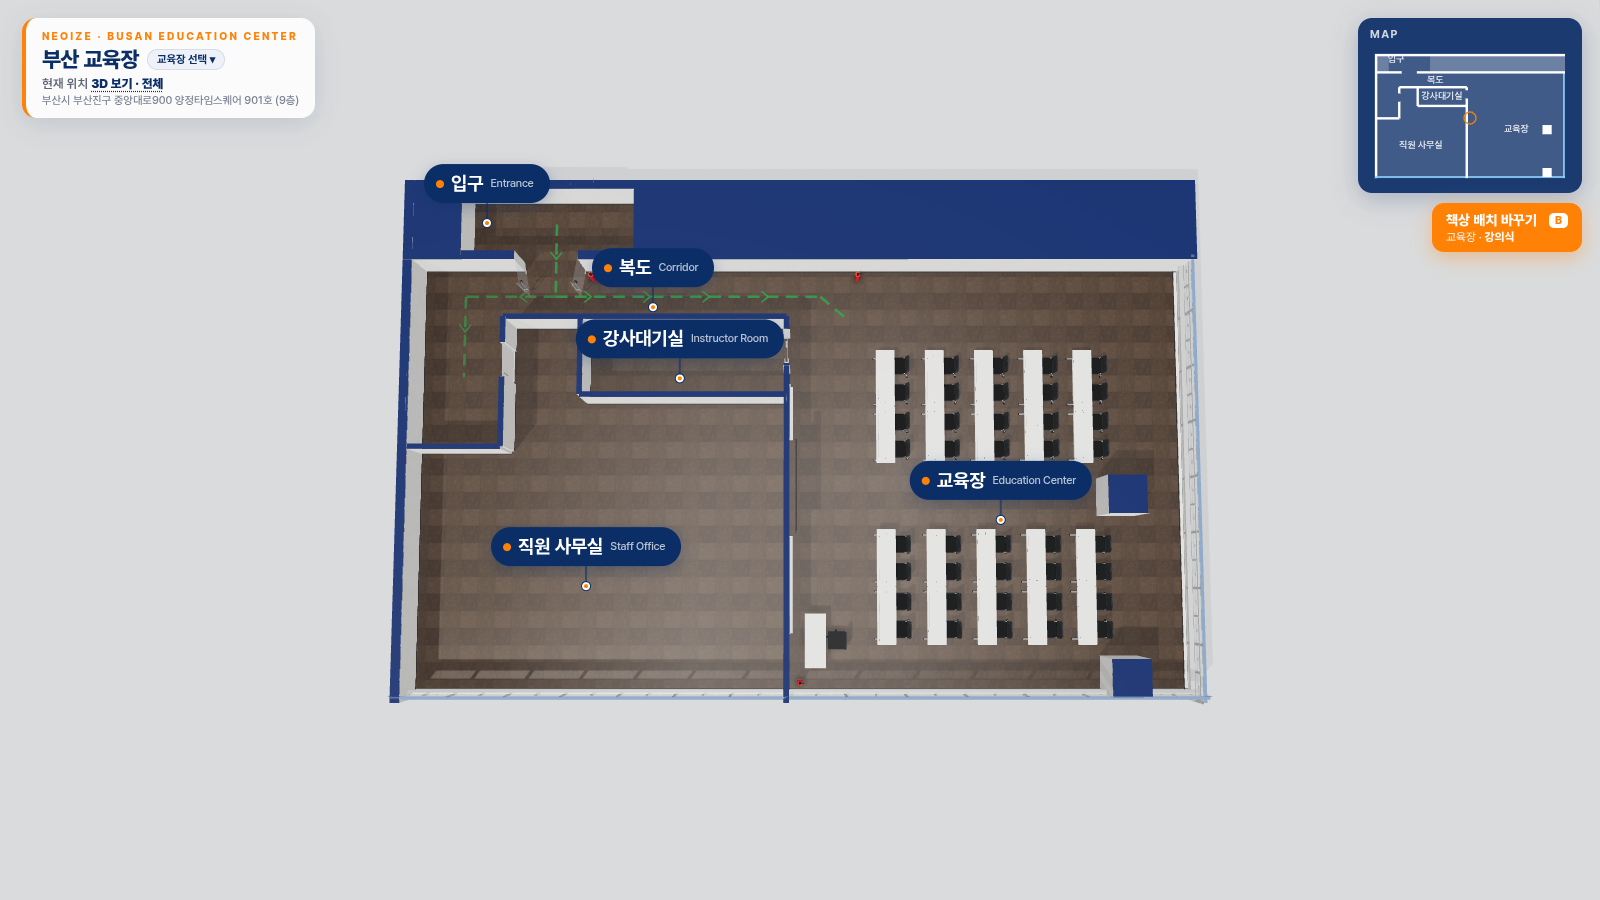
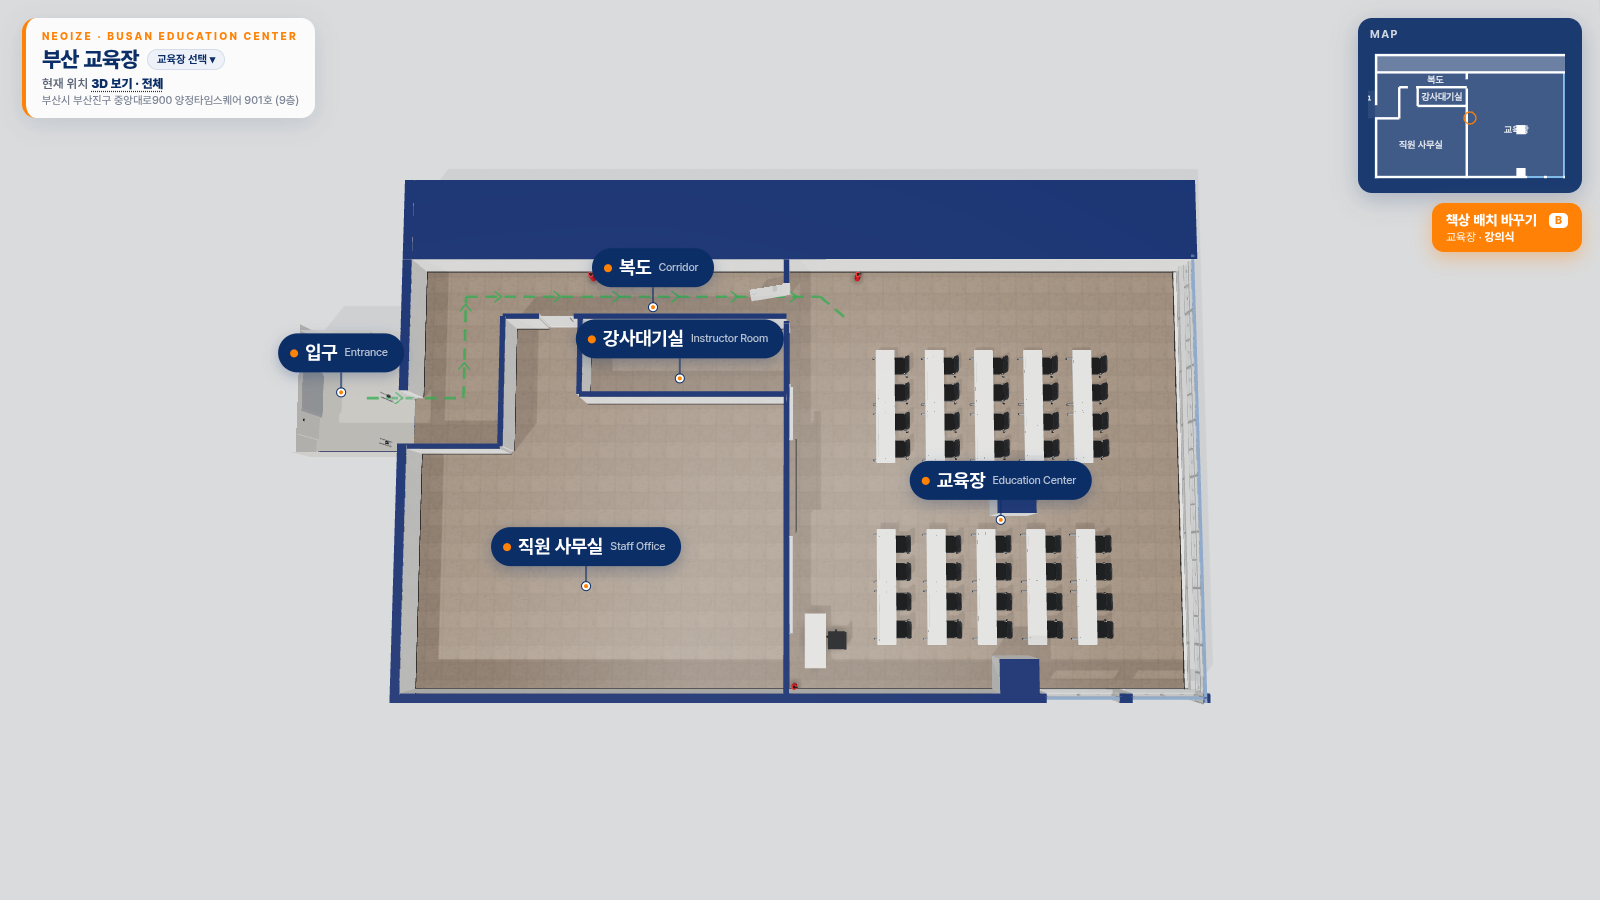
부산: 사용자 표시대로 문 3곳(서쪽 입구·사무실·교육장 문), 기둥 앞으로, 남쪽 통창 2칸, 바닥 밝게, 사진1 구도 맞춤

diff --git a/sites/busan/layout.js b/sites/busan/layout.js
@@ -5,14 +5,14 @@
    기준점(0,0) = 건물 북서쪽. x = 동쪽, z = 남쪽, 단위 m.  rot: 0 = 북쪽, 90 = 서쪽, 180 = 남쪽, -90 = 동쪽.
    안내도 px → m: x = (px-200)*0.03, z = (py-208)*0.03 + 2.0   (북쪽 2m 는 입구 앞 엘리베이터 홀, 추정)
    - 건물(안내도 외곽): 20.7 × 11.52m (+ 북쪽 홀 2m), 천장 2.7m
-   - 입구: 북쪽 벽 비상구 표시 아래(px x297–352) → 북쪽 복도 → 동쪽 교육장 / 서쪽 복도 끝 화장실
-   - 교육장: x10.0–20.7, z2.0–13.52. 스크린 = 서쪽 벽, 책상 = 북쪽·남쪽 2구역 × 5줄(4인, 사진 기준), 동쪽 끝 흰 사각 기둥 2개
+   - 입구: 서쪽 벽 화장실 옆(사용자 표시) → 서쪽 복도 북쪽 → 북쪽 복도 → 교육장 문(교육장 서쪽 벽 북쪽 끝)
+   - 교육장: x10.0–20.7, z2.0–13.52. 스크린 = 서쪽 벽, 책상 = 북쪽·남쪽 2구역 × 5줄(4인, 사진 기준), 가운데쯤 흰 사각 기둥 2개(x15.4–16.4)
    - 강사대기실 · 직원 사무실 = 출입 불가
    ※ 안내도 비율로 잡은 추정값이에요. 실측값을 받으면 숫자만 바꾸면 됩니다.
    ===================================================================== */
 window.LAYOUT = {
   building: { name: '부산 교육장', width: 20.7, depth: 13.52, ceiling: 2.7, eye: 1.6, wall: { exterior: 0.24, interior: 0.14, thick: 0.30 },
-              floorPattern: 'tile', floorColor: '#4b3c31', floorTile: 0.45, ceilingTex: 'acoustic', baseboard: { color: '#3a3533', h: 0.08 } },
+              floorPattern: 'tile', floorColor: '#8a7a6b', floorTile: 0.45, ceilingTex: 'acoustic', baseboard: { color: '#3a3533', h: 0.08 } },
   photoDir: 'sites/busan/photos/',
   backdrop: [ { side:'east', dist:12 }, { side:'south', dist:12 } ],   // 동쪽·남쪽 창밖 하늘 + 도시
 
@@ -20,13 +20,13 @@ window.LAYOUT = {
     { id:'classroom', name:'교육장', en:'Education Center', rect:[10.0, 2.0, 20.7, 13.52], floor:'floor',
       label:[15.4, 8.24], jump:{ x:19.6, z:12.6, look:[10.0, 7.0] },
       card:{ photos:[],
-             desc:'부산 교육장. 서쪽 벽에 스크린과 양옆 유리 화이트보드, 천장 빔프로젝트가 있고, 동쪽·남쪽은 연속 창이에요. 흰 접이식 책상이 북쪽·남쪽 2구역에 5줄씩(줄마다 4인, 40석), 가운데 통로 끝에 흰 사각 기둥이 있어요.',
+             desc:'부산 교육장. 서쪽 벽에 스크린과 양옆 유리 화이트보드, 천장 빔프로젝트가 있고, 동쪽은 연속 창, 남쪽은 동쪽 끝 통창 2칸이에요. 흰 접이식 책상이 북쪽·남쪽 2구역에 5줄씩(줄마다 4인, 40석), 가운데 통로에 흰 사각 기둥이 있어요.',
              services:['스크린','빔프로젝트','유리 화이트보드','냉난방'] } },
-    { id:'entrance', name:'입구', en:'Entrance', small:true, rect:[1.5, 0, 6.0, 2.0], floor:'floor',
-      label:[2.3, 0.6], jump:{ x:2.6, z:0.45, look:[5.2, 3.2] },
-      card:{ photos:[], desc:'9층 입구(비상구 표시 아래 문)예요. 들어와서 초록 경로를 따라 북쪽 복도를 동쪽으로 가면 교육장이에요. 화장실은 서쪽 복도 끝이에요.' } },
+    { id:'entrance', name:'입구', en:'Entrance', small:true, rect:[-2.6, 4.0, 0, 7.0], floor:'floor',
+      label:[-1.3, 5.0], jump:{ x:-2.0, z:5.57, look:[2.5, 4.9] },
+      card:{ photos:[], desc:'9층 입구(서쪽 벽, 화장실 옆 유리문)예요. 엘리베이터에서 내려 문으로 들어와 초록 경로를 따라 서쪽 복도를 북쪽으로, 북쪽 복도를 동쪽으로 가면 교육장 문이에요.' } },
     { id:'corridor', name:'복도', en:'Corridor', small:true, rect:[0, 2.0, 10.0, 3.62], rects:[[0, 3.62, 2.64, 7.01]], floor:'floor',
-      label:[6.6, 2.8], jump:{ x:4.2, z:2.8, look:[10.0, 2.8] }, card:{ photos:[], desc:'입구에서 교육장까지 이어지는 복도예요. 서쪽 복도 끝에 화장실이 있어요.' } },
+      label:[6.6, 2.8], jump:{ x:4.2, z:2.8, look:[10.0, 2.8] }, card:{ photos:[], desc:'입구에서 교육장까지 이어지는 복도예요. 화장실 표시는 입구 앞 홀에 있어요.' } },
     { id:'instructor', name:'강사대기실', en:'Instructor Room', small:true, noEntry:true, rect:[4.65, 3.62, 10.0, 5.66], floor:'floor', label:[7.3, 4.64],
       jump:{ x:7.3, z:4.6, look:[10.0, 4.6] }, card:{ photos:[], desc:'복도와 교육장 사이의 강사대기실 (출입 불가).' } },
     { id:'office', name:'직원 사무실', en:'Staff Office', small:true, noEntry:true, rect:[0, 7.01, 10.0, 13.52], rects:[[2.64, 5.66, 10.0, 7.01], [2.64, 3.62, 4.65, 5.66]], floor:'floor', label:[5.0, 9.9],
@@ -34,43 +34,48 @@ window.LAYOUT = {
   ],
 
   start: { mode:'orbit', room:'entrance' },
+  // 입구 밖 엘리베이터 홀(건물 서쪽, 크기 추정): 천장 + 벽
+  outside: [[-2.6, 4.0, 0, 7.0]], outsideWalls: true,
 
-  // 바닥 동선(안내도 초록 '이동경로'): 입구 → 북쪽 복도 동쪽 → 교육장 / 입구 → 서쪽 복도 → 화장실
+  // 바닥 동선: 서쪽 입구 → 서쪽 복도 북쪽 → 북쪽 복도 동쪽 → 교육장 문(사용자 표시 11/19)
   routes: [
-    { color:'#2fa84f', points:[[3.73, 0.8], [3.73, 2.8], [10.9, 2.8], [11.6, 3.4]] },
-    { color:'#2fa84f', opacity:0.55, points:[[3.73, 2.8], [1.3, 2.8], [1.3, 5.0]] }
+    { color:'#2fa84f', points:[[-1.3, 5.57], [1.3, 5.57], [1.3, 2.8], [10.9, 2.8], [11.6, 3.4]] }
   ],
 
   walls: [
     // 바깥벽
     { from:[0, 0], to:[20.7, 0], type:'solid', outer:true },
-    { from:[0, 0], to:[0, 13.52], type:'solid', outer:true },
+    { from:[0, 0], to:[0, 13.52], type:'solid', outer:true,
+      openings:[ { at:5.57, width:1.4, door:'glass', double:true, entrance:true, frame:'white', open:true } ] },   // 사용자 표시(빨간 박스): 서쪽 벽 입구(화장실 옆)
     // 동쪽 · 남쪽: 연속 창(사진: 흰 스팬드럴 + 작은 젖힘창 띠 + 큰 고정창, 회색 알루미늄)
     { from:[20.7, 2.0], to:[20.7, 13.52], type:'window', outer:true, style:'curtain', bay:1.5 },
-    { from:[10.0, 13.52], to:[20.7, 13.52], type:'window', outer:true, style:'curtain', bay:1.5 },
-    { from:[0, 13.52], to:[10.0, 13.52], type:'window', outer:true, style:'curtain', bay:1.5 },   // 직원 사무실 쪽(추정)
-    // 원래 북쪽 벽: 비상구 표시 아래 입구(px x297–352) — 유리 양문, 처음부터 열림
-    { from:[0, 2.0], to:[20.7, 2.0], type:'solid', outer:true,
-      openings:[ { at:2.9, width:1.66, door:'glass', double:true, entrance:true, frame:'white', open:true } ] },
+    // 남쪽: 사용자 표시(초록 박스) — 기둥 동쪽에 통창 2칸만, 나머지는 흰 벽
+    { from:[0, 13.52], to:[16.57, 13.52], type:'solid', outer:true },
+    { from:[16.57, 13.52], to:[18.41, 13.52], type:'window', outer:true, style:'curtain', bay:1.84 },
+    { from:[18.41, 13.52], to:[18.74, 13.52], type:'solid', outer:true },
+    { from:[18.74, 13.52], to:[20.53, 13.52], type:'window', outer:true, style:'curtain', bay:1.79 },
+    { from:[20.53, 13.52], to:[20.7, 13.52], type:'solid', outer:true },
+    // 북쪽 벽: 막힌 벽(비상구 표시만 — 비상구)
+    { from:[0, 2.0], to:[20.7, 2.0], type:'solid', outer:true },
     // 북쪽 복도 남쪽 벽 (강사대기실·사무실과 구분)
-    { from:[2.64, 3.62], to:[10.0, 3.62], type:'solid' },
+    { from:[2.64, 3.62], to:[10.0, 3.62], type:'solid',
+      openings:[ { at:3.58, width:0.9, door:'wood', frame:'white', hinge:'start', swing:-88, locked:true } ] },   // 사용자 표시(빨간 박스): 북쪽 복도 → 직원 사무실 문(출입 불가)
     // 서쪽 복도 동쪽 벽 + 직원 사무실 문(추정 위치, 출입 불가)
-    { from:[2.64, 3.62], to:[2.64, 7.01], type:'solid',
-      openings:[ { at:4.3, width:0.9, door:'wood', frame:'white', hinge:'start', swing:88, locked:true } ] },
+    { from:[2.64, 3.62], to:[2.64, 7.01], type:'solid' },
     { from:[0, 7.01], to:[2.64, 7.01], type:'solid' },   // 서쪽 복도 끝
     // 강사대기실
     { from:[4.65, 3.62], to:[4.65, 5.66], type:'solid' },
     { from:[4.65, 5.66], to:[10.0, 5.66], type:'solid' },
-    // 교육장 서쪽(스크린) 벽: 북쪽 끝은 복도로 열려 있음(z2.0–3.62). 스크린 오른쪽(북) 흰 문 = 강사대기실 문(사진1, 출입 불가)
-    { from:[10.0, 3.62], to:[10.0, 13.52], type:'solid',
-      openings:[ { at:3.95, width:0.9, door:'wood', vision:'strip', frame:'white', casing:0.06, hinge:'start', swing:-88, locked:true } ] }
+    // 교육장 서쪽(스크린) 벽: 북쪽 끝(z2.25–3.25)에 교육장 문
+    { from:[10.0, 2.0], to:[10.0, 13.52], type:'solid',
+      openings:[ { at:2.75, width:1.0, door:'wood', vision:'strip', frame:'white', casing:0.06, hinge:'start', swing:-88 } ] }   // 사용자 표시(빨간 박스): 북쪽 복도 끝 = 교육장 문(E 로 열기)
   ],
 
-  // 북쪽 2m 띠 중 입구 앞 홀(x1.5–6.0)만 걸을 수 있음 / 교육장 동쪽 끝 흰 사각 기둥 2개(안내도 회색 사각형, 사진)
+  // 북쪽 2m 띠 중 입구 앞 홀(x1.5–6.0)만 걸을 수 있음 / 교육장 가운데쯤 흰 사각 기둥 2개(x15.4–16.4)(안내도 회색 사각형, 사진)
   columns: [
-    { rect:[0, 0, 1.5, 2.0], block:true }, { rect:[6.0, 0, 20.7, 2.0], block:true },
-    { rect:[18.25, 7.74, 19.25, 8.74] },
-    { rect:[18.25, 12.42, 19.25, 13.40] }
+    { rect:[0, 0, 20.7, 2.0], block:true },
+    { rect:[15.4, 7.74, 16.4, 8.74] },     // 사용자 표시(회색 박스): 앞(스크린 쪽)으로 옮김
+    { rect:[15.4, 12.42, 16.4, 13.40] }
   ],
 
   ceiling: {
@@ -81,7 +86,7 @@ window.LAYOUT = {
       { x:11.6, z:8.24, len:1.2, w:0.3, rot:90, twin:true }, { x:14.1, z:8.24, len:1.2, w:0.3, rot:90, twin:true }, { x:16.6, z:8.24, len:1.2, w:0.3, rot:90, twin:true }, { x:19.1, z:8.24, len:1.2, w:0.3, rot:90, twin:true },
       { x:11.6, z:10.6, len:1.2, w:0.3, rot:90, twin:true }, { x:14.1, z:10.6, len:1.2, w:0.3, rot:90, twin:true }, { x:16.6, z:10.6, len:1.2, w:0.3, rot:90, twin:true }, { x:19.1, z:10.6, len:1.2, w:0.3, rot:90, twin:true },
       { x:11.6, z:12.95, len:1.2, w:0.3, rot:90, twin:true }, { x:14.1, z:12.95, len:1.2, w:0.3, rot:90, twin:true }, { x:16.6, z:12.95, len:1.2, w:0.3, rot:90, twin:true }, { x:19.1, z:12.95, len:1.2, w:0.3, rot:90, twin:true },
-      { x:3.73, z:1.0, len:1.2, w:0.1, rot:90 },
+      { x:-1.3, z:5.5, len:1.2, w:0.1, rot:0 },
       { x:2.0, z:2.8, len:1.2, w:0.1, rot:90 }, { x:5.0, z:2.8, len:1.2, w:0.1, rot:90 }, { x:8.0, z:2.8, len:1.2, w:0.1, rot:90 },
       { x:1.3, z:5.2, len:1.2, w:0.1, rot:0 },
       { x:7.3, z:4.64, len:1.2, w:0.1, rot:90 },
@@ -91,7 +96,7 @@ window.LAYOUT = {
       [12.85, 4.65], [15.35, 4.65], [17.85, 4.65], [12.85, 7.05], [15.35, 7.05], [17.85, 7.05],
       [12.85, 9.45], [15.35, 9.45], [17.85, 9.45], [12.85, 11.8], [15.35, 11.8], [17.85, 11.8], [10.7, 6.0], [10.7, 10.4]
     ],
-    projectors: [ { x:16.2, z:8.2, aim:[10.0, 8.0], drop:0.35, color:'white', label:'빔프로젝트' } ],   // 사진2(기둥 바로 앞)·사진3(카메라 맞춤 역투영)으로 추정: 시계 기둥 서쪽 약 2m
+    projectors: [ { x:14.2, z:8.2, aim:[10.0, 8.0], drop:0.35, color:'white', label:'빔프로젝트' } ],   // 사진2(기둥 바로 앞)·사진3(카메라 맞춤 역투영)으로 추정: 시계 기둥 서쪽 약 2m
     aircon: [[12.85, 5.85, 0.95], [12.85, 10.6, 0.95], [17.85, 5.85, 0.95], [17.85, 10.6, 0.95]]   // 4방향 카세트(사진, 개수·위치 추정)
   },
 
@@ -112,7 +117,7 @@ window.LAYOUT = {
 
   /* 장비 안내(마우스를 올리면 안내 카드) — '(예: …) — 수정 필요' 는 예시 문구예요 */
   equipment: [
-    { id:'bs_projector', name:'빔프로젝트', room:'교육장', box:[15.9, 7.9, 16.5, 8.5, 2.1, 2.7],
+    { id:'bs_projector', name:'빔프로젝트', room:'교육장', box:[13.9, 7.9, 14.5, 8.5, 2.1, 2.7],
       lines:['연결 케이블: (예: HDMI) — 수정 필요', '리모컨 위치: (예: 강사 책상) — 수정 필요'] },
     { id:'bs_screen', name:'스크린', room:'교육장', box:[10.1, 6.75, 10.4, 9.25, 1.0, 2.7], label:true, labelAt:[10.25, 2.62, 8.0], lines:['스크린 내리기/올리기: (예: 벽 스위치) — 수정 필요'] },
     { id:'bs_board', name:'유리 화이트보드', room:'교육장', boxes:[[10.05, 5.4, 10.25, 6.8, 0.8, 2.2], [10.05, 9.3, 10.25, 11.8, 0.8, 2.2]], lines:['마커·지우개: (예: 레지 위 비치) — 수정 필요'] },
@@ -126,18 +131,18 @@ window.LAYOUT = {
     { type:'whiteboard', x:10.09, z:6.1, w:1.4, rot:-90, style:'glass' },
     { type:'desk', x:10.75, z:12.0, w:1.4, d:0.55, rot:90 },      // 강사 책상(사진1 왼쪽, 추정)
     { type:'chair', x:11.3, z:12.0, rot:90 },
-    { type:'clock', x:18.24, z:8.24, rot:90, y:2.1 },             // 가운데 기둥 서쪽 면 벽시계(사진2)
+    { type:'clock', x:15.39, z:8.24, rot:90, y:2.1 },             // 가운데 기둥 서쪽 면 벽시계(사진2)
 
     /* --- 비상구 유도등 + 소화기 (안내도) --- */
-    { type:'exitSign', x:3.73, z:2.14, y:2.3, rot:180 },          // 입구 위(실내 쪽)
-    { type:'exitSign', x:10.95, z:2.14, y:2.3, rot:180 },         // 교육장 북서쪽
+    { type:'exitSign', x:3.73, z:2.14, y:2.3, rot:180 },          // 북쪽 벽 비상구 표시(안내도)
+    { type:'exitSign', x:10.08, z:2.75, y:2.35, rot:-90 },          // 교육장 문 위(사진1)
     { type:'extinguisher', x:4.75, z:2.3 },
     { type:'extinguisher', x:11.9, z:2.3 },
-    { type:'extinguisher', x:10.35, z:13.1 },
+    { type:'extinguisher', x:10.2, z:13.2 },
     { type:'extinguisher', x:4.95, z:3.95 },
 
     /* --- 입구 앞 홀(추정): 엘리베이터 / 서쪽 복도 끝 화장실 --- */
-    { type:'elevator', x:3.73, z:0.06, rot:180, floor:9 },
-    { type:'restroom', x:0.14, z:5.6, rot:-90 }
+    { type:'elevator', x:-2.54, z:5.5, rot:-90, floor:9 },        // 서쪽 홀 엘리베이터(추정)
+    { type:'restroom', x:-1.3, z:4.04, rot:180 }                  // 화장실 표시: 입구 옆 홀 북쪽 벽
   ]
 };

diff --git a/sites/sites.js b/sites/sites.js
@@ -11,5 +11,5 @@ window.SITES = [
     title:'대전 교육장', brand:'NEOIZE · DAEJEON EDUCATION CENTER', addr:'대전시 서구 둔산서로 59 고운손빌딩 1002호 (10층)', desc:'10층 엘리베이터 바로 옆 출입문 · L자 교육장 · 책상 4줄(32석) · 전동 스크린 · 정수기·제빙기·커피머신', thumb:'shot_dj_plan.png' },
   { id:'busan',   name:'부산 교육장', sub:'Busan Education Center', ready:true,
     title:'부산 교육장', brand:'NEOIZE · BUSAN EDUCATION CENTER', addr:'부산시 부산진구 중앙대로900 양정타임스퀘어 901호 (9층)',
-    desc:'9층 · 교육장 책상 2구역 × 5줄(40석) · 스크린 · 유리 화이트보드 · 빔프로젝트 · 동쪽·남쪽 연속 창', thumb:'shot_bs_plan.png' }
+    desc:'9층 · 교육장 책상 2구역 × 5줄(40석) · 스크린 · 유리 화이트보드 · 빔프로젝트 · 동쪽 연속 창 · 남쪽 통창 2칸', thumb:'shot_bs_plan.png' }
 ];

diff --git a/index.html b/index.html
@@ -178,10 +178,10 @@ a.pk-card:hover{transform:translateY(-4px);box-shadow:0 16px 36px rgba(11,46,103
   </div>
 </aside>
 <!-- 교육장 목록: sites/sites.js / 교육장별 공간 설정: sites/<id>/layout.js (치수·가구 배치는 거기서 수정) -->
-<script src="sites/sites.js?v=11192235"></script>
+<script src="sites/sites.js?v=11192300"></script>
 <script type="importmap">{"imports":{"three":"./lib/three.module.min.js","three/addons/":"./lib/addons/"}}</script>
 <script type="module">
-const V = "11192235", SITES = window.SITES || [], q = new URLSearchParams(location.search);
+const V = "11192300", SITES = window.SITES || [], q = new URLSearchParams(location.search);
 let id = q.get('site');
 if (!id && [...q.keys()].length) id = 'seoul';            // 예전 링크(?room=… 등)는 서울 구로로
 const S = SITES.find((s) => s.id === id);

diff --git a/수정방법.md b/수정방법.md
@@ -322,6 +322,8 @@ ceiling: { panels:[ { rect:[x1,z1,x2,z2], nx:2, nz:3 } ],  aircon:[[x,z], ...] }
 - 책상: 1.8×0.45m 흰 접이식(앞 가림판 · 회색 다리 · 검정 바퀴), 4줄 × 4개, 의자 `chairStyle:'shell'`(검정 쉘 + 메쉬 등받이 + 크롬 바퀴), 책상 서쪽에 붙여(`tuck`) 스크린(동쪽)을 봄.
 
 ## 부산 교육장 (sites/busan/layout.js)
+- (11/19 사용자 표시 반영) 입구 = 서쪽 바깥벽 유리 양문(z5.57) + 건물 밖 엘리베이터 홀 `outside:[[-2.6,4.0,0,7.0]]`, 북쪽 벽은 막힘(비상구 표시만). 교육장 문 = 교육장 서쪽 벽 북쪽 끝(at:2.75, E 로 열기). 직원 사무실 문 = 북쪽 복도 남쪽 벽 at:3.58(출입 불가). 문 `at` 은 벽 방향의 절대 좌표예요.
+- 기둥 2개 x15.4–16.4 (시계·빔프로젝트도 같이 옮김). 남쪽 벽은 통창 2칸(x16.57–18.41, 18.74–20.53)만, 나머지는 벽. 바닥색 floorColor '#8a7a6b'.
 - 공식 안내도(9F) 기준 축척 0.03 m/px (4인책상 한 줄 3.6m = 약 120px). px → m: x=(px-200)*0.03, z=(py-208)*0.03+2.0 (북쪽 2m = 입구 앞 엘리베이터 홀, 추정).
 - 입구 = 원래 북쪽 벽 비상구 표시 아래 유리 양문(x2.9–4.56). 초록 경로: 입구 → 북쪽 복도 동쪽 → 교육장 / 서쪽 복도 → 화장실.
 - 교육장 x10.0–20.7, z2.0–13.52: 서쪽 벽 = 스크린(z8.0, 2.4m) + 유리 화이트보드 2개 + 강사대기실 흰 문(출입 불가). 동쪽·남쪽 = `style:'curtain'` 연속 창(spandrel / band / head / bay 로 조절).
